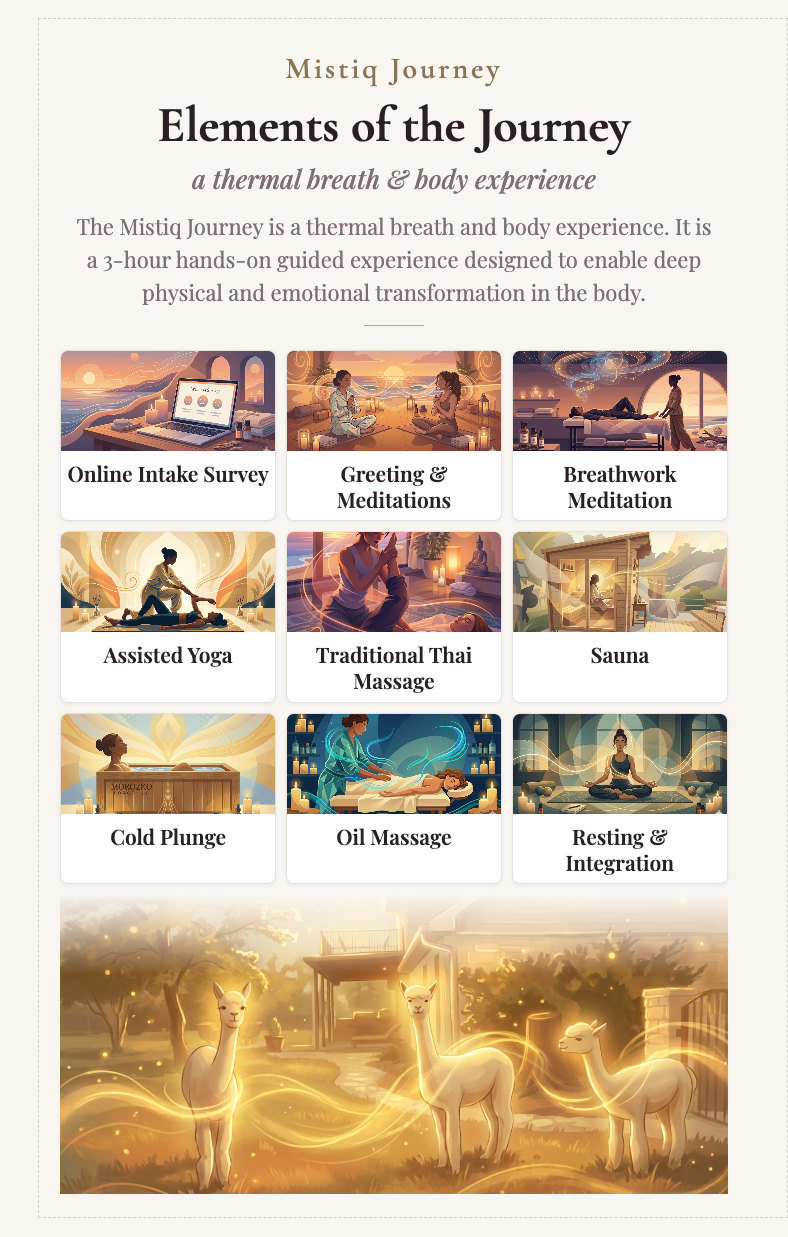
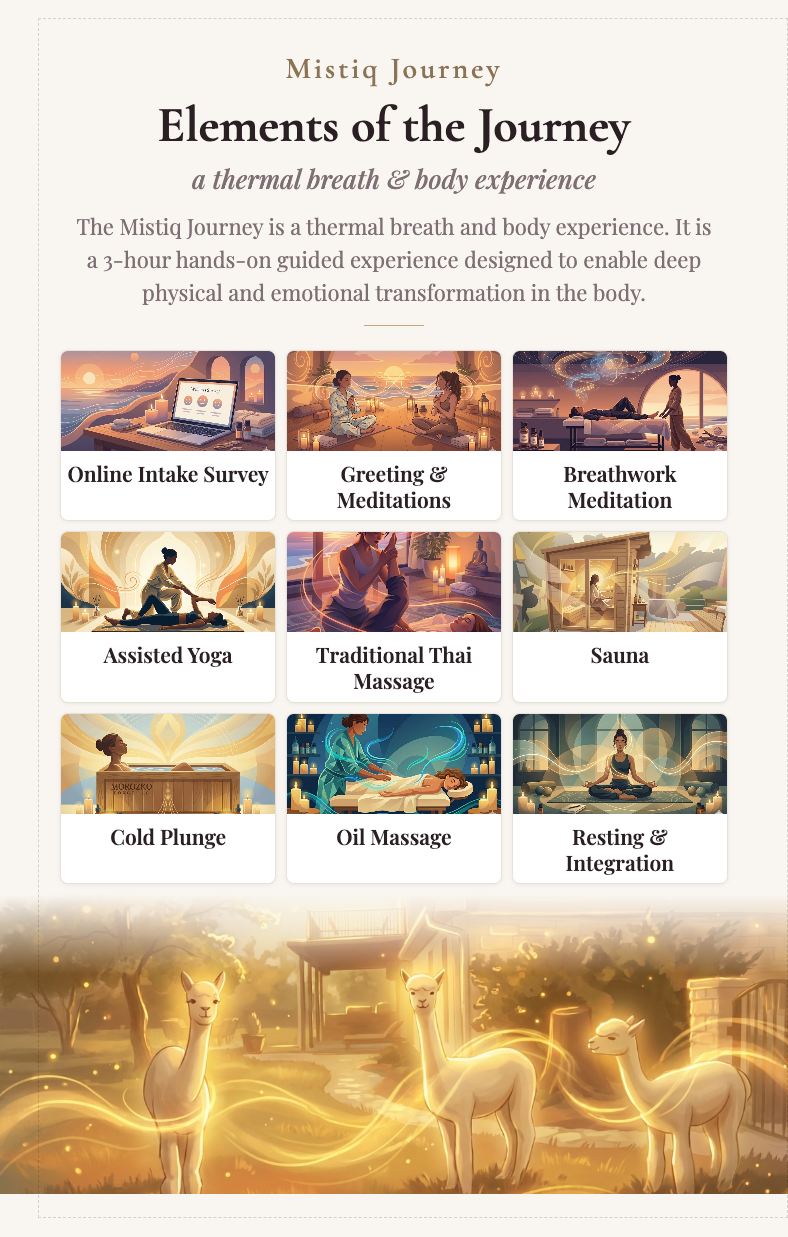
Align all images exactly to trim lines (18.75px from edges)
- Front hero: margin-top 18.75px to start at trim top
- Front bottom: margin-bottom 18.75px to end at trim bottom
- Back bottom: negative margins to break out of padding, align to trim
- Added alpaca head logo after wordmark on location line

Changed region(s): [[0.0, 0.7065, 1.0, 0.983]]

diff --git a/mistiq/business-card.html b/mistiq/business-card.html
@@ -102,7 +102,7 @@
     /* ===== FRONT SIDE ===== */
     .card-hero {
       height: 380px;
-      margin-top: 0;
+      margin-top: 18.75px;
       background-image: url('https://aphrrfprbixmhissnjfn.supabase.co/storage/v1/object/public/mistiq-assets/windingdown.jpg');
       background-size: cover;
       background-position: center;
@@ -193,6 +193,11 @@
       width: auto;
     }
 
+    .card-location-logo {
+      height: 32px !important;
+      width: auto;
+    }
+
     .card-detail {
       font-family: 'Playfair Display', serif;
       font-size: 28px;
@@ -268,9 +273,9 @@
 
     .card-bottom-image {
       margin-top: auto;
-      margin-bottom: 30px;
+      margin-bottom: 18.75px;
       width: 100%;
-      height: 270px;
+      height: 280px;
       background-image: url('https://aphrrfprbixmhissnjfn.supabase.co/storage/v1/object/public/mistiq-assets/trancemode.jpg');
       background-size: cover;
       background-position: center center;
@@ -398,7 +403,10 @@
 
     .card-back .back-bottom-image {
       margin-top: 10px;
-      width: 100%;
+      margin-bottom: -21.25px;
+      margin-left: -60px;
+      margin-right: -60px;
+      width: calc(100% + 120px);
       height: 300px;
       background-image: url('alpacas-illustrated.jpg');
       background-size: cover;
@@ -472,7 +480,7 @@
               <div class="card-qr-cta">learn<br>more &amp;<br>sign up</div>
             </div>
 
-            <div class="card-location">@ <img src="../assets/branding/wordmark-black-transparent.png" alt="alpaca playhouse austin"></div>
+            <div class="card-location">@ <img src="../assets/branding/wordmark-black-transparent.png" alt="alpaca playhouse austin"> <img src="../assets/branding/alpaca-head-black-transparent.png" alt="logo" class="card-location-logo"></div>
             <div class="card-directions">13 minutes east of the airport on hwy 71</div>
             <div class="card-detail">alpacaplayhouse.com/mistiq</div>
             <div class="card-detail">pai@alpacaplayhouse.com</div>
